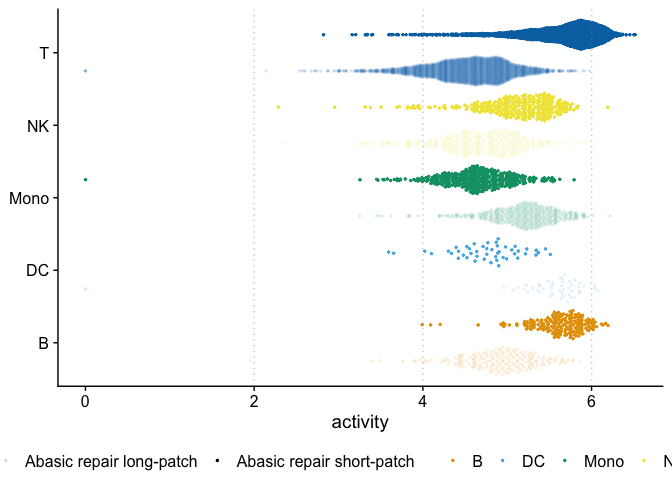
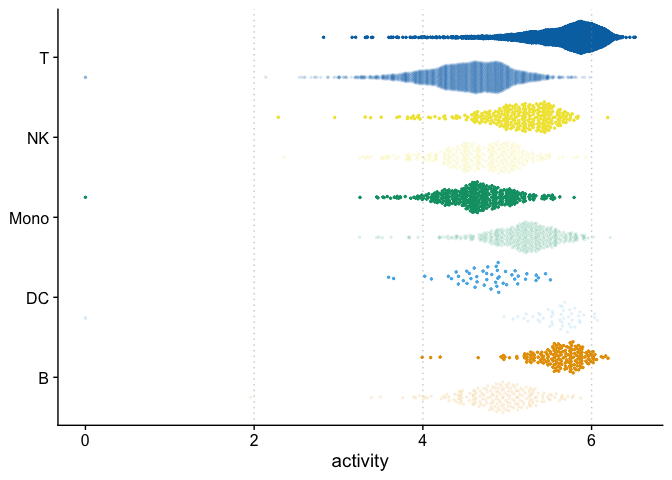
change activity plots

diff --git a/README.md b/README.md
@@ -245,19 +245,7 @@ df %>% filter(repair %in% c("Uracil_45", "GU_45", "riboG_44", "Normal_45")) %>%
 
 ``` r
 df %>% filter(repair %in% c("Abasic_45", "Abasic_46")) %>%
-        ggplot(aes(y = celltype, x = activity, color = celltype)) + 
-        ggbeeswarm::geom_quasirandom(aes(alpha = label), size = 0.5, groupOnX = F,
-                                     dodge.width = 1) +
-        scale_color_manual(values = colors) + 
-        theme_cowplot() + 
-        theme(legend.position = 'bottom',
-              legend.title = element_blank(),
-              strip.placement = "outside",
-              strip.background = element_blank(),
-        ) +
-        ylab(NULL) + 
-        geom_vline(xintercept = c(2, 4, 6), color =  "#999999",
-                   alpha = 0.5, linetype = "dotted")
+        activity_plot(lab = label)
 ```
 
 ![](README_files/figure-gfm/singlecell_repair_PBMC-2.png)<!-- -->
